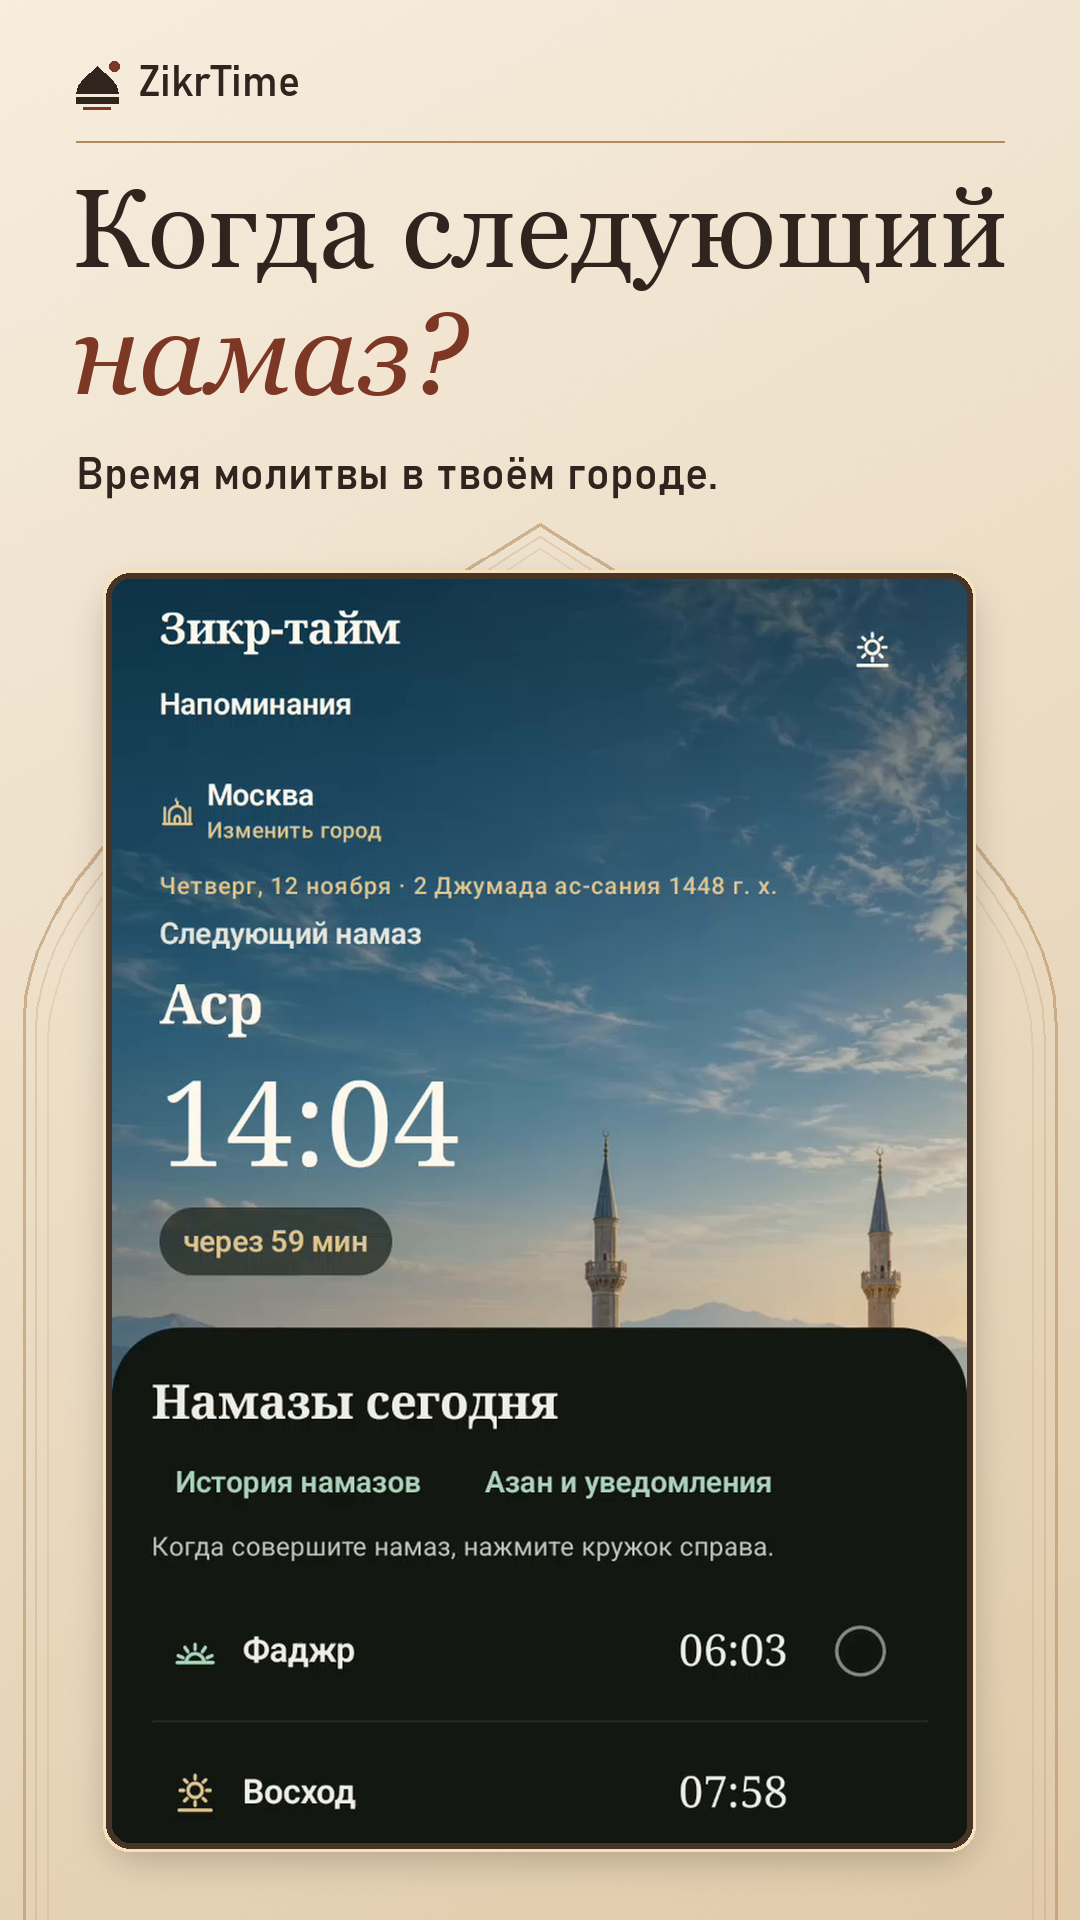
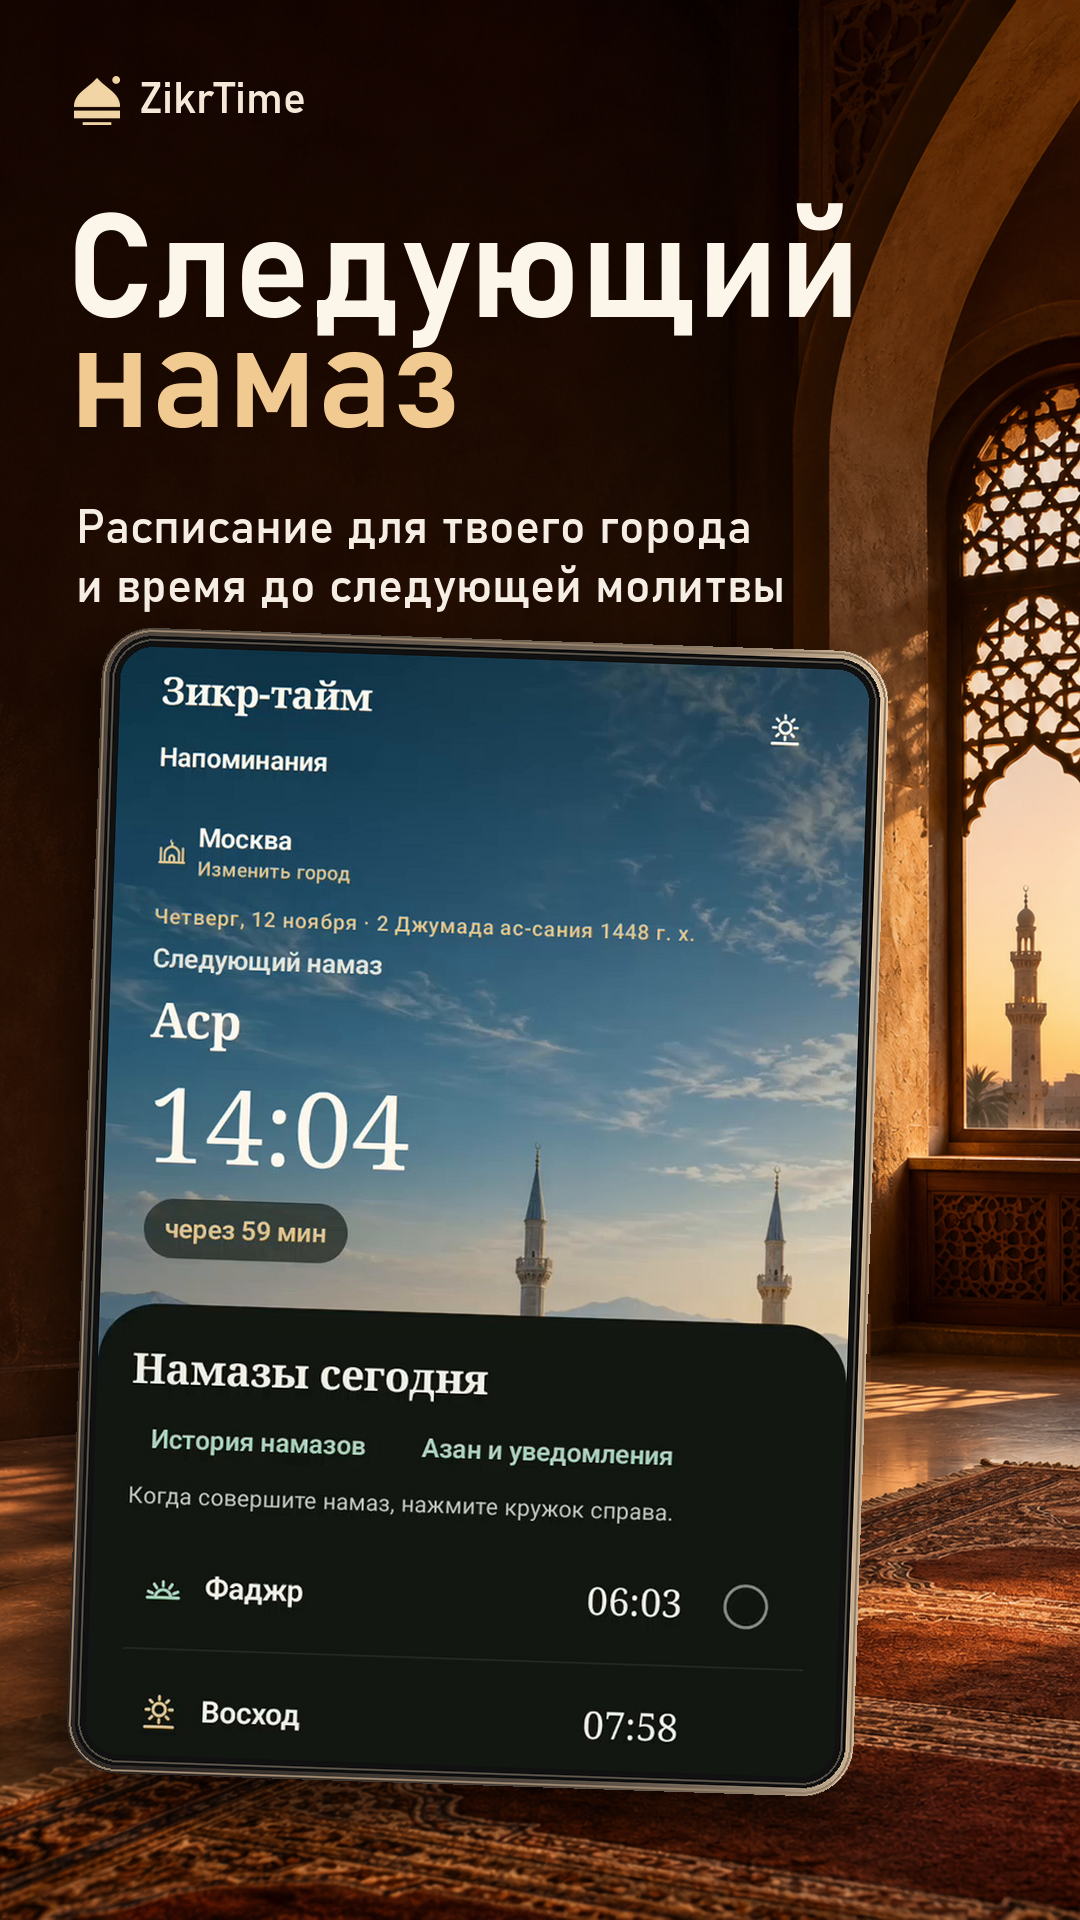
Unify all six RuStore screenshots around the social-limits cover

diff --git a/store/rustore/social-limits/README.md b/store/rustore/social-limits/README.md
@@ -4,8 +4,8 @@
 
 В поле краткого описания вставляется содержимое `short-description-ru.txt`, в поле полного — `full-description-ru.txt`. Изображения для телефона находятся в `screenshots/` и пронумерованы в порядке показа. Первые четыре последовательно показывают блокировку, настройку дневного лимита, вопрос и начисление минут. Два последних посвящены намазу и чтению Корана.
 
-На первой обложке показан экран дневной блокировки из Android 0.8.28 (57). Исходный снимок `03-daily-limit-block.png` сохранён после [проверки на Android 15](https://github.com/ibragimvisaevv-cloud/ZikrTime/actions/runs/44958811949) в коммите `0ed6fb0c8e4b3ec3cf39f1422d9cc7d65c9e2fe1`. Архитектурный фон обложки создан с помощью ИИ.
+Первые четыре изображения используют экраны Android 0.8.28 (57) из проверки на Android 15. Это `03-daily-limit-block.png` (блокировка), `02-focus-setup.png` (настройка), `04-first-blocking-question.png` (вопрос) и `05-earned-ten-minutes.png` (начисление бонуса в конце раунда). [Исходные снимки](https://github.com/ibragimvisaevv-cloud/ZikrTime/tree/179317a98bdb6d6c2471a1336717aeb4fc88b069/evidence/android57) · [Проверка на Android](https://github.com/ibragimvisaevv-cloud/ZikrTime/actions/runs/44958811949)
 
-Для следующих трёх изображений использованы подлинные Android-кадры. Настройки — `design-focus-settings.png` на `9a1ace280d67f534dff811af79334b9ab0ae9dd3`, вопрос из блокировки и карточка начисления бонуса — `lt-level-advanced-blocker.png` и `lt-level-reward-once.png` на `a2367d419c0537c22617b1d101fd43144ab25222`. Последняя карточка показывает результат в разделе «Знания».
+Заключительные два изображения показывают настоящий Android-интерфейс расписания намазов и чтения Корана с переводом. Для каждого из шести кадров сгенерирована своя архитектурная фотография. Надписи, кнопки и текст Корана внутри устройства взяты с оригинальных снимков приложения.
 
 Те же правила использует карточка на главном экране Android и вводный экран. За три правильных ответа начисляется десять минут, до шестидесяти в сутки. Дневной лимит и пауза на время намаза настраиваются отдельно.
